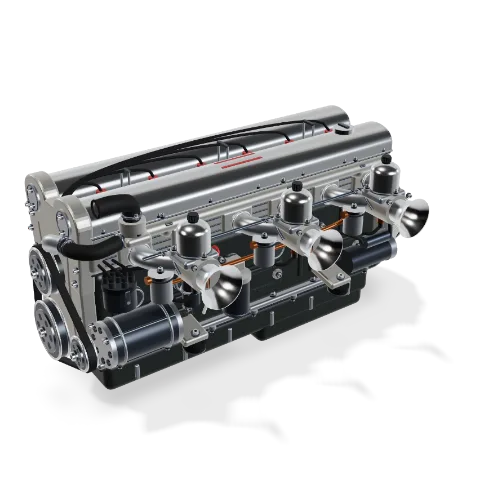
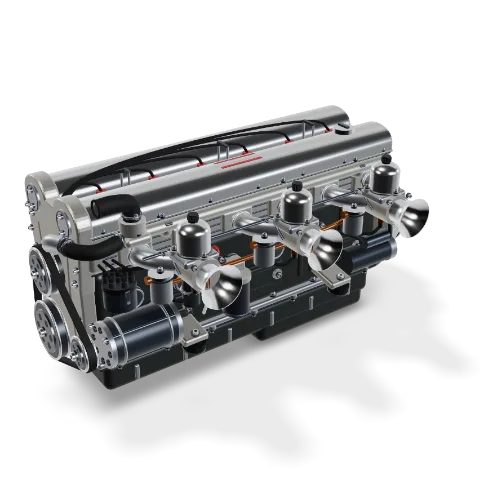
fix(site): address review findings on copy, the waitlist, and 3D shadows
Codex and Opus reviews found these; each was checked against the source.

- The contact-shadow bake depth-tests, so the surface nearest the floor
  wins, and the cast shadow is redrawn afterwards with the floor in place.
  The engine poster is re-rendered to match.
- The waitlist keeps keyboard focus: the button reports busy instead of
  disabling itself, and focus moves to the confirmation. The Drive column
  can shrink to a 320px screen.
- History, sync, and Drive copy no longer promise every version, every
  device, or files that never leave the computer.
- The hatch texture moves to the differential and draws on a page canvas,
  and older Safari skips the request timeout instead of failing.

Changed region(s): [[0.125, 0.625, 0.7812, 0.875]]

diff --git a/apps/site/src/figure-studio.ts b/apps/site/src/figure-studio.ts
@@ -71,12 +71,11 @@ export function stageFigure(renderer: T.WebGLRenderer, scene: T.Scene, figure: T
   const reach = size.y * 0.3;
   const target = new T.WebGLRenderTarget(512, 512);
   const blurTarget = new T.WebGLRenderTarget(512, 512);
-  target.texture.generateMipmaps = blurTarget.texture.generateMipmaps = false;
   const floorCamera = new T.OrthographicCamera(-width / 2, width / 2, depth / 2, -depth / 2, 0, reach);
   floorCamera.position.set(center.x, groundY, center.z);
   floorCamera.rotation.x = Math.PI / 2;
   floorCamera.updateMatrixWorld();
-  const depthMaterial = new T.MeshDepthMaterial({ depthTest: false, depthWrite: false });
+  const depthMaterial = new T.MeshDepthMaterial();
   depthMaterial.onBeforeCompile = shader => {
     shader.fragmentShader = shader.fragmentShader.replace(
       'gl_FragColor = vec4( vec3( 1.0 - fragCoordZ ), opacity );',
@@ -86,8 +85,8 @@ export function stageFigure(renderer: T.WebGLRenderer, scene: T.Scene, figure: T
   const quad = new T.Mesh(new T.PlaneGeometry(2, 2));
   const quadCamera = new T.OrthographicCamera(-1, 1, 1, -1, 0, 1);
   quadCamera.position.z = 0.5;
-  const horizontal = new T.ShaderMaterial(HorizontalBlurShader);
-  const vertical = new T.ShaderMaterial(VerticalBlurShader);
+  const horizontal = new T.ShaderMaterial({ ...HorizontalBlurShader, uniforms: T.UniformsUtils.clone(HorizontalBlurShader.uniforms) });
+  const vertical = new T.ShaderMaterial({ ...VerticalBlurShader, uniforms: T.UniformsUtils.clone(VerticalBlurShader.uniforms) });
   horizontal.depthTest = vertical.depthTest = false;
   const blur = (amount: number) => {
     quad.material = horizontal;
@@ -107,21 +106,17 @@ export function stageFigure(renderer: T.WebGLRenderer, scene: T.Scene, figure: T
   contact.scale.y = -1;
   contact.position.set(center.x, groundY + 0.002, center.z);
   contact.renderOrder = 1;
-  const clear = new T.Color();
-  const clearAlpha = renderer.getClearAlpha();
-  renderer.getClearColor(clear);
   ground.visible = false;
   scene.overrideMaterial = depthMaterial;
-  renderer.setClearColor(0x000000, 0);
   renderer.setRenderTarget(target);
-  renderer.clear();
   renderer.render(scene, floorCamera);
   scene.overrideMaterial = null;
   ground.visible = true;
   blur(1.4);
   blur(0.6);
   renderer.setRenderTarget(null);
-  renderer.setClearColor(clear, clearAlpha);
+  // The bake ran with the floor hidden; draw the cast shadow again with it in place.
+  renderer.shadowMap.needsUpdate = true;
   blurTarget.dispose();
   depthMaterial.dispose(); horizontal.dispose(); vertical.dispose(); quad.geometry.dispose();
   scene.add(contact);
@@ -149,24 +144,3 @@ export function stageFigure(renderer: T.WebGLRenderer, scene: T.Scene, figure: T
   };
 }
 
-/** Cut faces carry drafting hatch, the way a sectioned part is drawn in a manual. */
-export function createSectionMaterial(repeat: number) {
-  const canvas = new OffscreenCanvas(128, 128);
-  const context = canvas.getContext('2d')!;
-  context.fillStyle = '#d3d7da';
-  context.fillRect(0, 0, 128, 128);
-  context.strokeStyle = '#6a7279';
-  context.lineWidth = 3;
-  for (let offset = -128; offset <= 128; offset += 16) {
-    context.beginPath();
-    context.moveTo(offset, 128);
-    context.lineTo(offset + 128, 0);
-    context.stroke();
-  }
-  const texture = new T.CanvasTexture(canvas);
-  texture.colorSpace = T.SRGBColorSpace;
-  texture.wrapS = texture.wrapT = T.RepeatWrapping;
-  texture.repeat.set(repeat, repeat);
-  texture.anisotropy = 4;
-  return new T.MeshStandardMaterial({ map: texture, roughness: .55, metalness: .25, side: T.DoubleSide });
-}

diff --git a/apps/site/index.html b/apps/site/index.html
@@ -181,10 +181,10 @@
           <span class="visually-hidden">Turn a folder into a collection. Each record is its own file, shown as a table, a board, or a calendar.</span>
         </button>
 
-        <button class="principle-node" type="button" data-principle="history" data-title="Every change is saved." data-copy="See who changed what, you or your agent, and bring back any earlier version." data-agent="Everything it does is on the record, so you can check it or undo it." aria-pressed="false" style="--node-x: 80%; --node-y: 77%; --node-delay: 160ms;">
+        <button class="principle-node" type="button" data-principle="history" data-title="History is built in." data-copy="See who changed what, and bring back an earlier version." data-agent="Its edits show up in history, so you can review them." aria-pressed="false" style="--node-x: 80%; --node-y: 77%; --node-delay: 160ms;">
           <span class="principle-node-dot" aria-hidden="true"></span>
           <span class="principle-node-label">History</span>
-          <span class="visually-hidden">See who changed what, you or your agent, and bring back any earlier version.</span>
+          <span class="visually-hidden">See who changed what, and bring back an earlier version.</span>
         </button>
 
         <button class="principle-node" type="button" data-principle="chat" data-title="Chat where the work is." data-copy="Talk with people and agents right next to your files." data-agent="Joins in when someone @ mentions it." aria-pressed="false" style="--node-x: 51%; --node-y: 84%; --node-delay: 190ms;">
@@ -327,7 +327,7 @@
       <h2 id="sync-title"><span>Files on your computer.</span> <span>Sync when you need it.</span></h2>
       <p class="section-lede">
         Your files live on your computer, so they work offline. Connect a sync
-        server to see them on every device. Offline changes sync when you reconnect.
+        server to work across your devices. Offline changes sync when you reconnect.
       </p>
     </div>
     <div class="sync-stage reveal d1">
@@ -412,7 +412,7 @@
           <ul class="drive-includes">
             <li>Sync across your devices</li>
             <li>Share links for people and agents</li>
-            <li>Your files stay on your computer</li>
+            <li>Your files still live on your computer</li>
           </ul>
           <form class="waitlist" data-waitlist method="post" action="https://app.loops.so/api/newsletter-form/cmuegff8m01nl0j182sc6dixh">
             <div class="waitlist-field">
@@ -421,7 +421,7 @@
               <input type="hidden" name="userGroup" value="Drive waitlist" />
               <button class="btn btn-primary" type="submit">Join the waitlist</button>
             </div>
-            <p class="waitlist-status" data-waitlist-status role="status">We'll email you when Drive opens.</p>
+            <p class="waitlist-status" data-waitlist-status role="status" tabindex="-1">We'll email you when Drive opens.</p>
           </form>
         </div>
 

diff --git a/apps/site/src/site-interactions.test.js b/apps/site/src/site-interactions.test.js
@@ -387,6 +387,7 @@ describe('Drive waitlist', () => {
     expect(request.headers['Content-Type']).toBe('application/x-www-form-urlencoded');
     expect(Object.fromEntries(new URLSearchParams(request.body))).toEqual({ email: 'ada@example.com', userGroup: 'Drive waitlist' });
     expect(document.querySelector('[data-waitlist-status]').textContent).toContain('on the list');
+    expect(document.activeElement).toBe(document.querySelector('[data-waitlist-status]'));
   });
 
   it('explains a rate limit and lets the visitor try again', async () => {
@@ -395,7 +396,7 @@ describe('Drive waitlist', () => {
     await vi.waitFor(() => expect(form.dataset.state).toBe('error'));
     expect(document.querySelector('[data-waitlist-status]').textContent).toContain('Too many signups');
     const submit = form.querySelector('button[type="submit"]');
-    expect(submit.disabled).toBe(false);
+    expect(submit.hasAttribute('aria-disabled')).toBe(false);
     expect(submit.textContent).toBe('Join the waitlist');
   });
 
@@ -405,13 +406,13 @@ describe('Drive waitlist', () => {
     const form = await join();
     const status = document.querySelector('[data-waitlist-status]');
     expect(status.textContent).toBe('Joining the waitlist…');
-    expect(form.querySelector('button[type="submit"]').disabled).toBe(true);
+    expect(form.querySelector('button[type="submit"]').getAttribute('aria-disabled')).toBe('true');
     form.dispatchEvent(new Event('submit', { bubbles: true, cancelable: true }));
     expect(fetch).toHaveBeenCalledOnce();
     fail(new TypeError('offline'));
     await vi.waitFor(() => expect(form.dataset.state).toBe('error'));
     expect(status.textContent).toContain('Check your connection');
-    expect(form.querySelector('button[type="submit"]').disabled).toBe(false);
+    expect(form.querySelector('button[type="submit"]').hasAttribute('aria-disabled')).toBe(false);
   });
 
   it.each([

diff --git a/apps/site/src/drive-models.ts b/apps/site/src/drive-models.ts
@@ -1,7 +1,6 @@
 import * as T from 'three';
 import { RoundedBoxGeometry } from 'three/addons/geometries/RoundedBoxGeometry.js';
 import { mergeGeometries } from 'three/addons/utils/BufferGeometryUtils.js';
-import { createSectionMaterial } from './figure-studio';
 
 export interface DriveModel {
   root: T.Group;
@@ -57,9 +56,28 @@ function workshop() {
   const dark = metal(0x242a30, .48, .75);
   const cast = metal(0x7b848c, .52, .82);
   const brass = metal(0x9b8052, .32);
-  const section = createSectionMaterial(1.6);
+  // Cut faces carry drafting hatch, the way a sectioned part is drawn in a manual.
+  const hatch = document.createElement('canvas');
+  hatch.width = hatch.height = 128;
+  const hatchContext = hatch.getContext('2d')!;
+  hatchContext.fillStyle = '#d3d7da';
+  hatchContext.fillRect(0, 0, 128, 128);
+  hatchContext.strokeStyle = '#6a7279';
+  hatchContext.lineWidth = 3;
+  for (let offset = -128; offset <= 128; offset += 16) {
+    hatchContext.beginPath();
+    hatchContext.moveTo(offset, 128);
+    hatchContext.lineTo(offset + 128, 0);
+    hatchContext.stroke();
+  }
+  const hatchTexture = new T.CanvasTexture(hatch);
+  hatchTexture.colorSpace = T.SRGBColorSpace;
+  hatchTexture.wrapS = hatchTexture.wrapT = T.RepeatWrapping;
+  hatchTexture.repeat.set(1.6, 1.6);
+  hatchTexture.anisotropy = 4;
+  textures.push(hatchTexture);
+  const section = new T.MeshStandardMaterial({ map: hatchTexture, roughness: .55, metalness: .25, side: T.DoubleSide });
   materials.push(section);
-  textures.push(section.map!);
 
   const mesh = (geometry: T.BufferGeometry, material: T.Material, parent: T.Object3D = root, position = [0, 0, 0]) => {
     const part = new T.Mesh(geometry, material);

diff --git a/apps/site/site.js b/apps/site/site.js
@@ -892,7 +892,7 @@ if (waitlist) {
     if (pending) return;
     pending = true;
     waitlist.dataset.state = 'pending';
-    submit.disabled = true;
+    submit.setAttribute('aria-disabled', 'true');
     submit.textContent = 'Joining…';
     status.textContent = 'Joining the waitlist…';
     try {
@@ -900,17 +900,18 @@ if (waitlist) {
         method: 'POST',
         headers: { 'Content-Type': 'application/x-www-form-urlencoded' },
         body: new URLSearchParams(new FormData(waitlist)).toString(),
-        signal: AbortSignal.timeout(10000),
+        signal: AbortSignal.timeout?.(10000),
       });
       const message = await failure(response);
       waitlist.dataset.state = message ? 'error' : 'joined';
       status.textContent = message ?? 'You\'re on the list. We\'ll email you when Drive opens.';
+      if (!message) status.focus();
     } catch {
       waitlist.dataset.state = 'error';
       status.textContent = 'Couldn\'t reach the waitlist. Check your connection and try again.';
     } finally {
       pending = false;
-      submit.disabled = false;
+      submit.removeAttribute('aria-disabled');
       submit.textContent = submitLabel;
     }
   });

diff --git a/apps/site/styles.css b/apps/site/styles.css
@@ -1544,7 +1544,8 @@ main::before {
 }
 .waitlist-field input::placeholder { color: var(--subtle); }
 .waitlist-field .btn { flex: none; padding: 10px 16px; font-size: 13px; }
-.waitlist-field .btn:disabled { cursor: progress; }
+.waitlist-field .btn[aria-disabled='true'] { cursor: progress; }
+.waitlist-status:focus { outline: none; }
 .waitlist-status { min-height: 1.5em; margin-top: 10px; color: var(--subtle); font-size: 13px; line-height: 1.5; }
 .waitlist[data-state='error'] .waitlist-status { color: var(--ink); }
 .waitlist[data-state='joined'] .waitlist-field { display: none; }
@@ -1562,7 +1563,7 @@ main::before {
   .downloads-heading { margin-bottom: 40px; }
   .download-card { padding: 24px 16px; gap: 20px 12px; }
   .download-card strong { font-size: 18px; }
-  .drive-offer { grid-template-columns: 1fr; gap: 24px; }
+  .drive-offer { grid-template-columns: minmax(0, 1fr); gap: 24px; }
   .drive-model-stage { height: 380px; }
 }
 @media (max-width: 360px) {
